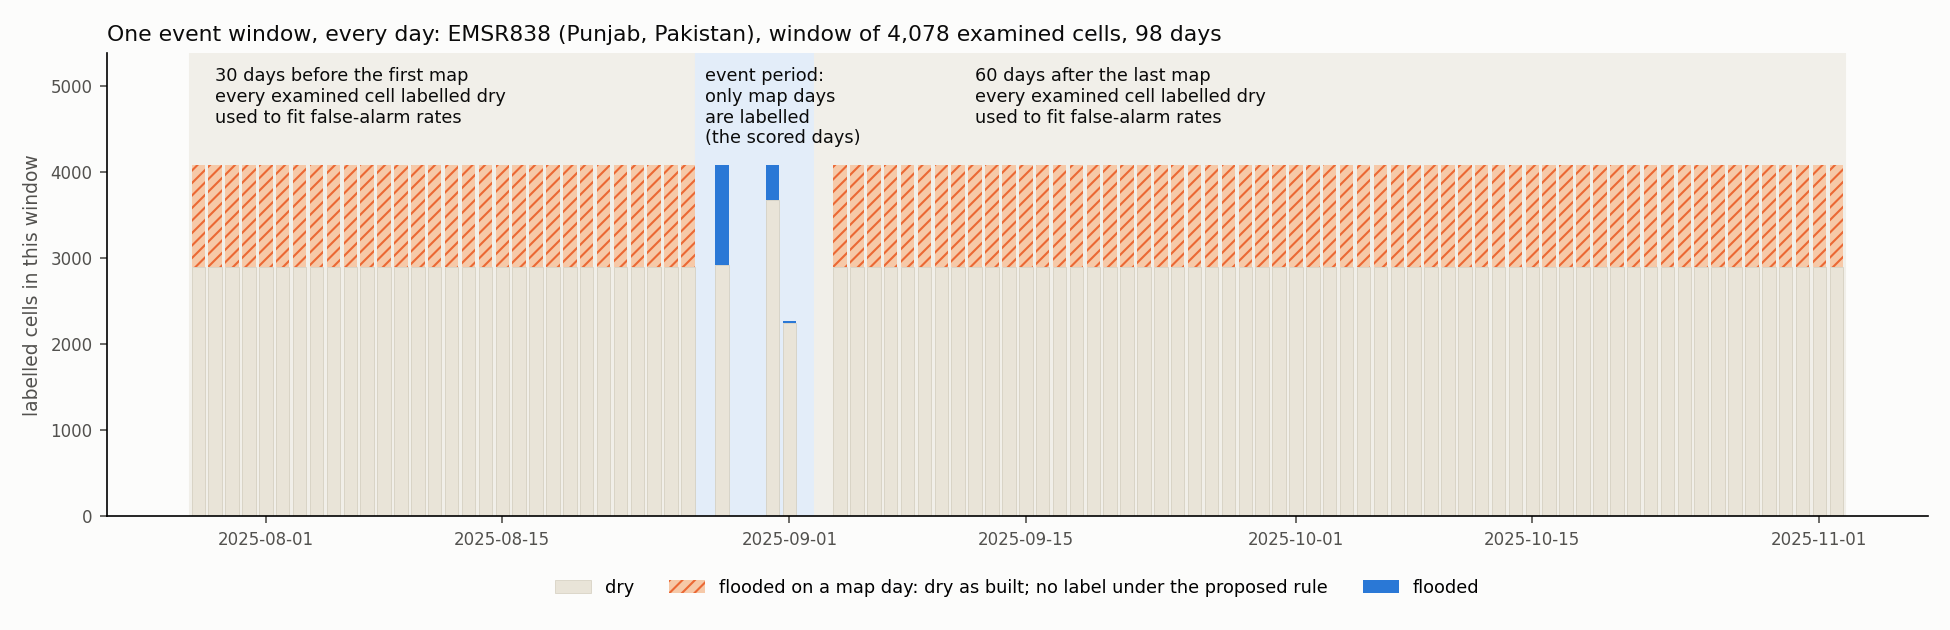
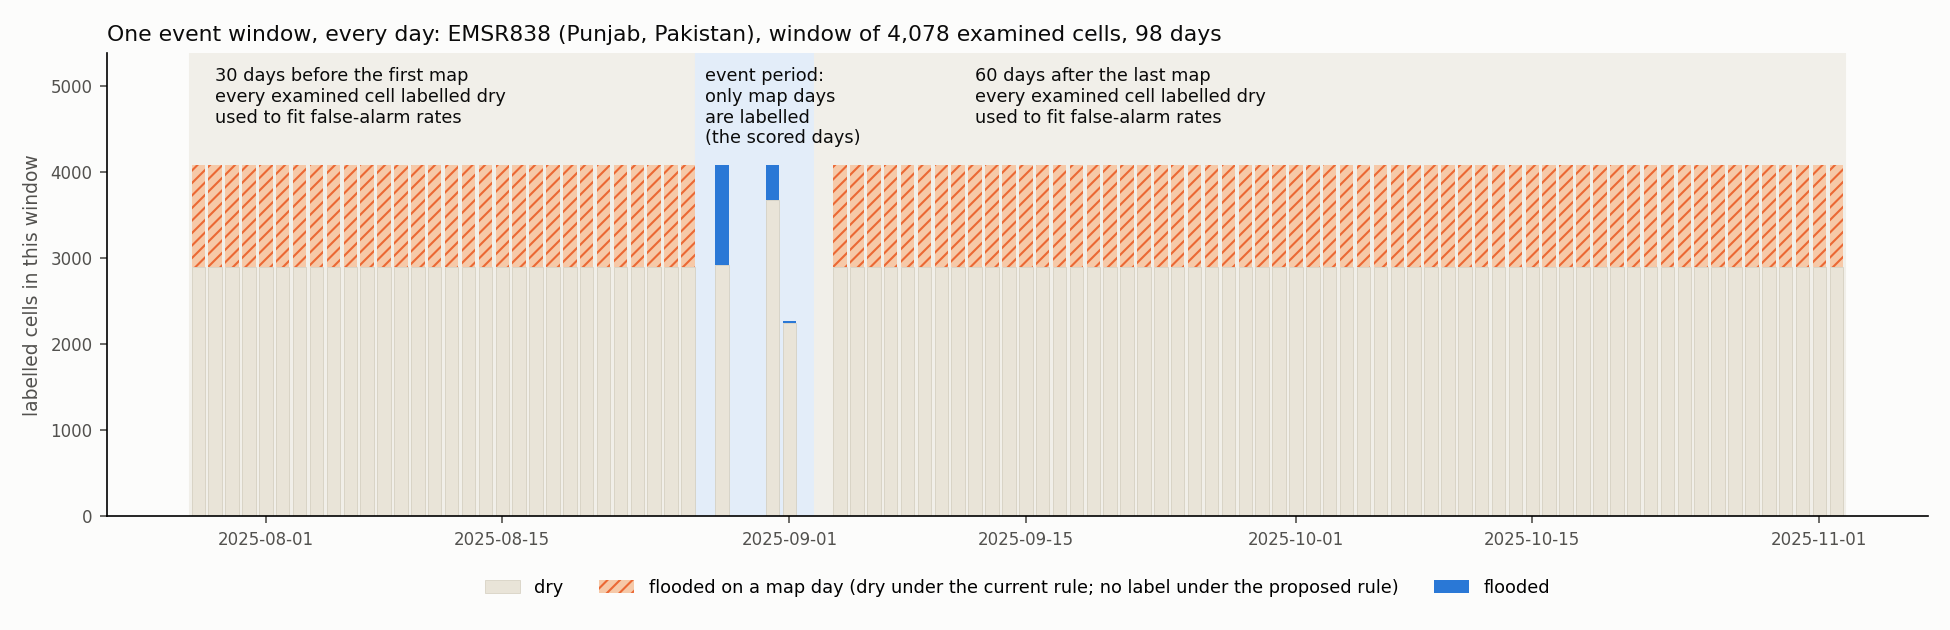
Timeline figure: legend says 'dry under the current rule' instead of 'dry as built'

Changed region(s): [[0.2462, 0.9048, 0.8, 0.9651]]

diff --git a/scripts/fusion/figure_event_layers.py b/scripts/fusion/figure_event_layers.py
@@ -168,7 +168,7 @@ def timeline_figure(cfg) -> None:
     w = 0.8
     ax.bar(days, dry_never_event, width=w, color=LAND, edgecolor="#cfc9b8", linewidth=0.3, label="dry", zorder=2)
     ax.bar(days, dry_ever_window, width=w, bottom=dry_never_event, color="#f6c9a8", hatch="////", edgecolor="#eb6834", linewidth=0,
-           label="flooded on a map day: dry as built; no label under the proposed rule", zorder=2)
+           label="flooded on a map day (dry under the current rule; no label under the proposed rule)", zorder=2)
     ax.bar(days, flood, width=w, bottom=np.where(in_event, dry_never_event, 0), color=WATER, label="flooded", zorder=3)
     top = int((dry_never_event + dry_ever_window + np.where(in_event, flood, 0)).max())
     ax.set_ylim(0, top * 1.32)
